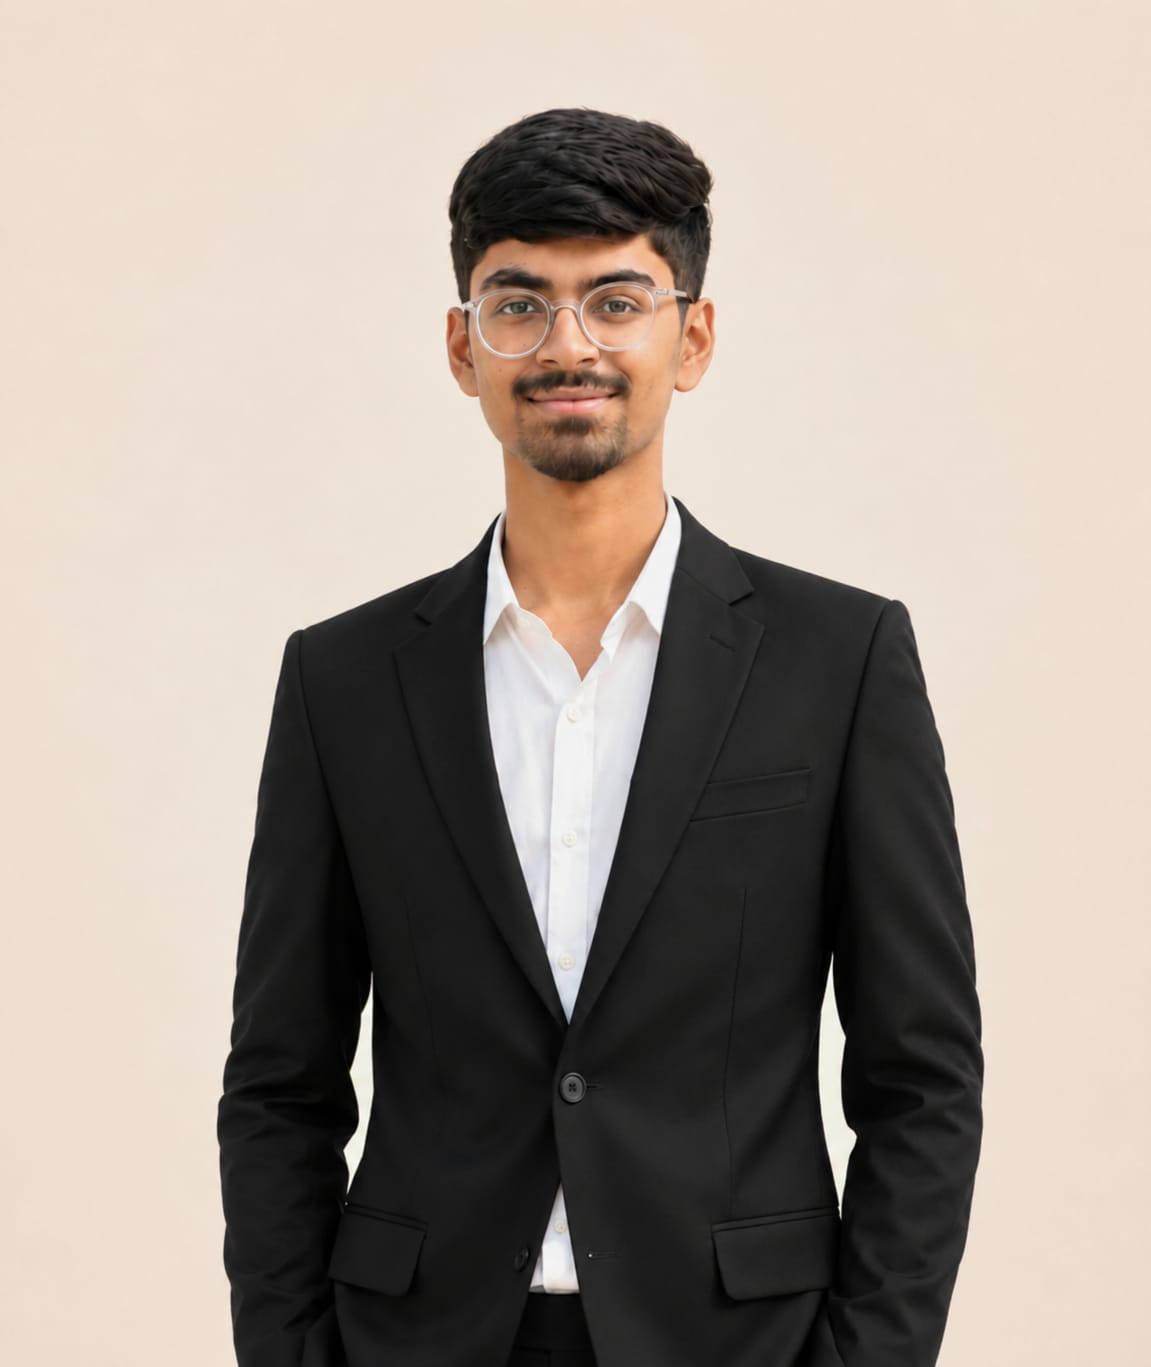
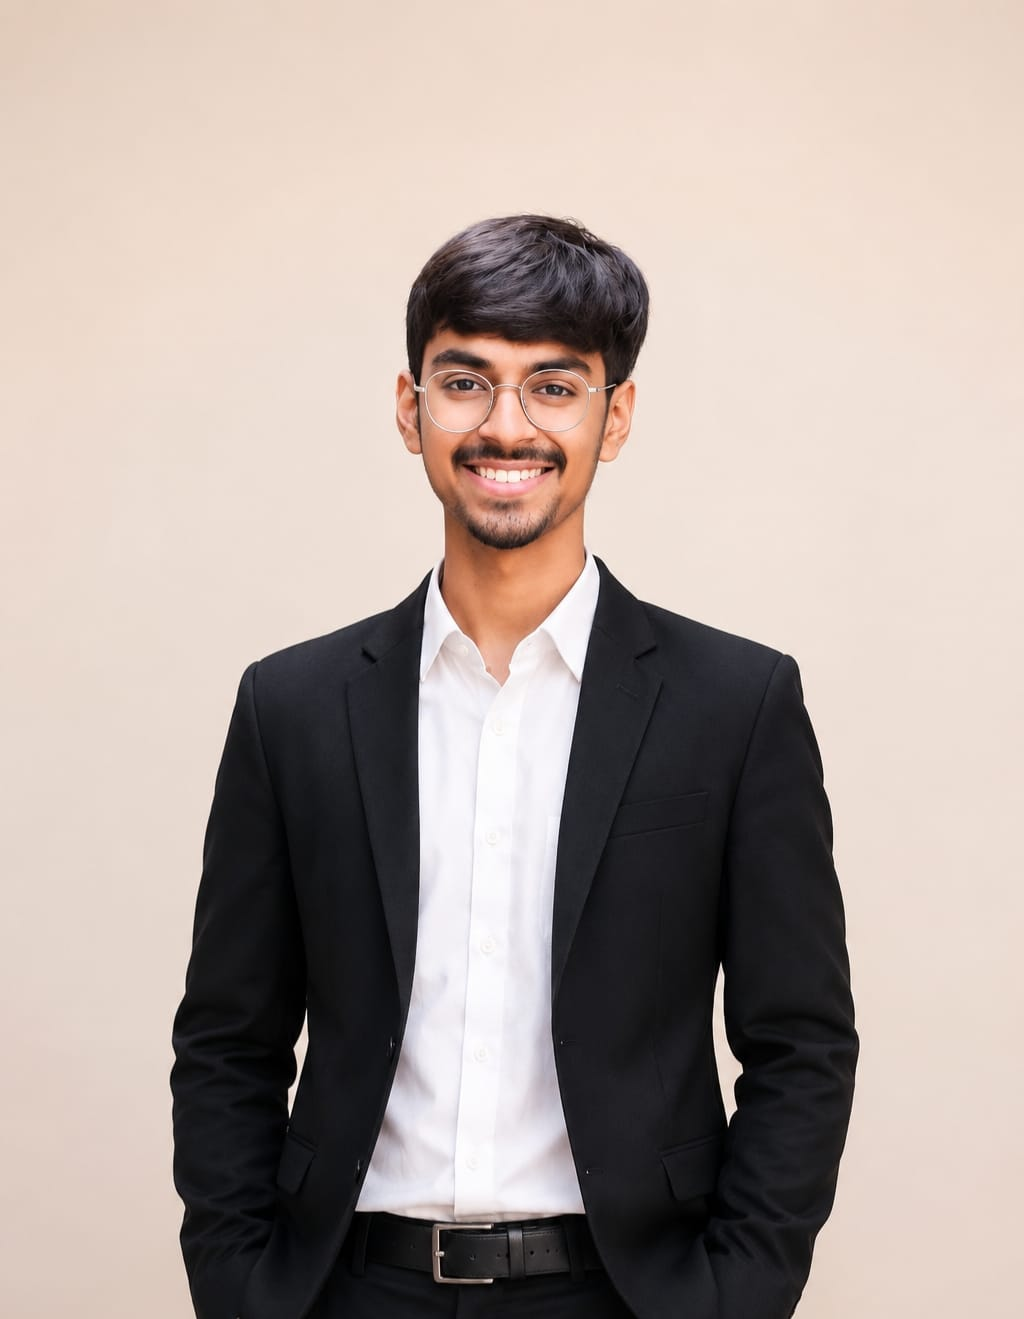
first commit

diff --git a/src/app/Components/Process/Process1.tsx b/src/app/Components/Process/Process1.tsx
@@ -1,24 +1,35 @@
 import Image from 'next/image';
 import React from 'react';
+// import React, { useEffect, useState } from "react";
 
 const Process1 = () => {
   return (
     <section className="cs_process_area cs_style_1">
-      <div className="cs_height_120 cs_height_lg_80"></div>
-      <div className="container">
+      <div className="cs_height_120 cs_height_lg_40"></div>
+      <div className="container-fluid">
         <div className="cs_section_heading cs_style_1 text-center">
-          <p className="cs_section_subtitle cs_fs-18 cs_semibold cs_accent_color cs_center cs_mb_20 wow fadeInDown">
+          {/* <p className="cs_section_subtitle cs_fs-18 cs_semibold cs_accent_color cs_center cs_mb_20 wow fadeInDown">
             <span className="cs_shape_left"></span>Work Process<span className="cs_shape_right"></span>
-          </p>
+          </p> */}
           <h2 className="cs_fs_48 cs_mb_21 wow fadeInUp">Our Solution Process.</h2>
-          <p className="cs_section_heading_text mb-0 wow fadeInUp" data-wow-delay="200ms">Experience Excellence Techtro  Your Leading Digital Solutions Provider. We are a leading digital agency.</p>
+          {/* <p className="cs_section_heading_text mb-0 wow fadeInUp" data-wow-delay="200ms">Experience Excellence Techtro  Your Leading Digital Solutions Provider. We are a leading digital agency.</p> */}
         </div>
         <div className="cs_height_60 cs_height_lg_50"></div>
         <div className="cs_process_content">
           <div className="cs_heading_box cs_radius_20">
-            <div className="cs_heading_box_inner cs_center cs_blue_bg cs_bold cs_white_color cs_radius_10 text-center text-uppercase">Digitom Approach</div>
+            <div className="cs_heading_box_inner cs_center cs_blue_bg cs_bold cs_white_color cs_radius_10 text-center text-uppercase">Our Steps</div>
           </div>
-          <div className="cs_steps_boxes_wrapper position-relative">
+          <div
+  className="cs_steps_boxes_wrapper position-relative"
+  style={{
+    paddingTop: "40px",
+  display: "flex",
+  justifyContent: "center",
+  alignItems: "center",
+  flexWrap: "nowrap",
+  gap: "100px",
+}}
+>
             <div className="cs_stepbox_wrapper position-relative wow fadeInUp">
               <span className="cs_stepbox_index cs_center cs_radius_50 position-absolute">
                 <span className="cs_step_index_in cs_radius_50">
@@ -59,7 +70,49 @@ const Process1 = () => {
               </span>
               <div className="cs_stepbox_inner cs_center cs_fs_22 cs_medium cs_heading_color_2 cs_radius_10 text-center">Launch & QA</div>
             </div>
-            <div className="cs_process_shape_1 position-absolute">
+
+            {/* Step 05 */}
+<div className="cs_stepbox_wrapper position-relative">
+  <span className="cs_stepbox_index cs_center cs_radius_50 position-absolute">
+    <span className="cs_step_index_in cs_radius_50">
+      <span className="cs_fs-18 cs_bold cs_heading_color">05</span>
+      <span className="cs_fs_14 cs_medium">Step</span>
+    </span>
+    <Image
+      src="/assets/img/step_index_1.svg"
+      alt="img"
+      width={72}
+      height={25}
+    />
+  </span>
+
+  <div className="cs_stepbox_inner cs_center cs_fs_22 cs_medium cs_heading_color_2 cs_radius_10 text-center">
+    Testing & Review
+  </div>
+</div>
+
+{/* Step 06 */}
+<div className="cs_stepbox_wrapper position-relative">
+  <span className="cs_stepbox_index cs_center cs_radius_50 position-absolute">
+    <span className="cs_step_index_in cs_radius_50">
+      <span className="cs_fs-18 cs_bold cs_heading_color">06</span>
+      <span className="cs_fs_14 cs_medium">Step</span>
+    </span>
+    <Image
+      src="/assets/img/step_index_2.svg"
+      alt="img"
+      width={72}
+      height={25}
+    />
+  </span>
+
+  <div className="cs_stepbox_inner cs_center cs_fs_22 cs_medium cs_heading_color_2 cs_radius_10 text-center">
+    Support & Maintenance
+  </div>
+</div>
+        
+            
+            {/* <div className="cs_process_shape_1 position-absolute">
               <Image src="/assets/img/process_shape_1.svg" alt="img" width={959} height={208} />
             </div>
             <div className="cs_process_shape_2 position-absolute"></div>
@@ -67,7 +120,7 @@ const Process1 = () => {
             <div className="cs_process_shape_4 position-absolute"></div>
             <div className="cs_process_shape_5 position-absolute"></div>
             <div className="cs_process_shape_6 position-absolute"></div>
-            <div className="cs_process_shape_7 position-absolute"></div>
+            <div className="cs_process_shape_7 position-absolute"></div> */}
           </div>
         </div>
       </div>

diff --git a/src/app/Components/Faq/Faq1.tsx b/src/app/Components/Faq/Faq1.tsx
@@ -7,11 +7,11 @@ import Image from 'next/image';
 const Faq1 = () => {
 
     const faqContent = [
-        {title:'Bring their individual experience and creative?', content:'Nullam faucibus eleifend mi eu varius. Integer vel tincidunt massa, quis semper odio. Mauris et mollis quam. Nullam fringilla erat id ante commodo sodales.'},
-        {title:'Human centered design to challenges?', content:'Nullam faucibus eleifend mi eu varius. Integer vel tincidunt massa, quis semper odio. Mauris et mollis quam. Nullam fringilla erat id ante commodo sodales.'},
-        {title:'What type of company is measured?', content:'Nullam faucibus eleifend mi eu varius. Integer vel tincidunt massa, quis semper odio. Mauris et mollis quam. Nullam fringilla erat id ante commodo sodales.'},
-        {title:'Developing core web applications?', content:'Nullam faucibus eleifend mi eu varius. Integer vel tincidunt massa, quis semper odio. Mauris et mollis quam. Nullam fringilla erat id ante commodo sodales.'},
-        {title:'Design should enrich our day?', content:'Nullam faucibus eleifend mi eu varius. Integer vel tincidunt massa, quis semper odio. Mauris et mollis quam. Nullam fringilla erat id ante commodo sodales.'},
+        {title:'What digital marketing services does The Crystal Engage offer ?', content:'The Crystal Engage provides end-to-end digital marketing and technology solutions, including Search Engine Optimization (SEO), Performance Marketing, Social Media Marketing, Website Design & Development, Branding, Content Marketing, Mobile App Development, E-commerce Development, UI/UX Design, and Custom Software Development. Our services are designed to help businesses increase online visibility, generate qualified leads, and achieve sustainable growth.'},
+        {title:'How can digital marketing help my business grow ?', content:'Digital marketing helps businesses attract the right audience, improve brand visibility, generate quality leads, and increase conversions through targeted online strategies. By combining SEO, paid advertising, content marketing, and social media, businesses can strengthen their online presence and achieve measurable business growth.'},
+        {title:'How long does SEO take to deliver results ?', content:'SEO is a long-term strategy that builds sustainable online visibility. While some improvements may be noticeable within 2–3 months, significant growth in organic traffic, keyword rankings, and lead generation generally takes 4–6 months or more, depending on your industry, competition, and website performance.'},
+        {title:'Do you create customized digital marketing strategies ?', content:'Yes. Every business has unique goals and challenges, so we develop customized digital marketing strategies based on your industry, target audience, competition, and business objectives. This ensures every campaign is aligned with measurable outcomes such as increased traffic, qualified leads, and higher conversions.'},
+        {title:'Why choose The Crystal Engage as your digital growth partner ?', content:'We focus on delivering measurable business outcomes rather than simply offering marketing services. By combining data-driven strategies, industry expertise, transparent communication, and continuous optimization, we help businesses improve online visibility, attract the right customers, and achieve long-term digital growth.'},
       ]; 
 
       const accordionContentRef = useRef(null);

diff --git a/src/app/Components/Counter/Counter1.tsx b/src/app/Components/Counter/Counter1.tsx
@@ -3,43 +3,43 @@ import React from 'react';
 const Counter1 = () => {
     return (
 <div className="cs_counter cs_style_1 cs_gray_bg_1">
-      <div className="container">
-        <div className="row">
-          <div className="col-lg-3 col-sm-6">
-            <div className="cs_counter_wrapper cs_bg_gradient">
-              <div className="cs_counter_number cs_fs_48 cs_bold cs_heading_color mb-0">
-                <span data-count-to="14" className="odometer"></span>7+
-              </div>
-              <p className="cs_counter_title cs_fs_18 mb-0">Years of Experience</p>
-            </div>
+  <div className="container">
+    <div className="row justify-content-center">
+      <div className="col-lg-4 col-md-6 col-sm-6 mb-4">
+        <div className="cs_counter_wrapper cs_bg_gradient text-center">
+          <div className="cs_counter_number cs_fs_48 cs_bold cs_heading_color mb-0">
+            <span data-count-to="530" className="odometer"></span>530+
           </div>
-          <div className="col-lg-3 col-sm-6">
-            <div className="cs_counter_wrapper">
-              <div className="cs_counter_number cs_fs_48 cs_bold cs_heading_color mb-0">
-                <span data-count-to="500" className="odometer"></span>150+
-              </div>
-              <p className="cs_counter_title cs_fs_18 mb-0">Happy Customer</p>
-            </div>
+          <p className="cs_counter_title cs_fs_18 mb-0">
+            Projects Delivered
+          </p>
+        </div>
+      </div>
+
+      <div className="col-lg-4 col-md-6 col-sm-6 mb-4">
+        <div className="cs_counter_wrapper text-center">
+          <div className="cs_counter_number cs_fs_48 cs_bold cs_heading_color mb-0">
+            <span data-count-to="98" className="odometer"></span>98%
           </div>
-          <div className="col-lg-3 col-sm-6">
-            <div className="cs_counter_wrapper cs_bg_gradient">
-              <div className="cs_counter_number cs_fs_48 cs_bold cs_heading_color mb-0">
-                <span data-count-to="4530" className="odometer"></span>530+
-              </div>
-              <p className="cs_counter_title cs_fs_18 mb-0">Project Delivered</p>
-            </div>
+          <p className="cs_counter_title cs_fs_18 mb-0">
+            Client Satisfaction
+          </p>
+        </div>
+      </div>
+
+      <div className="col-lg-4 col-md-6 col-sm-6 mb-4">
+        <div className="cs_counter_wrapper cs_bg_gradient text-center">
+          <div className="cs_counter_number cs_fs_48 cs_bold cs_heading_color mb-0">
+            <span data-count-to="10" className="odometer"></span>10+
           </div>
-          <div className="col-lg-3 col-sm-6">
-            <div className="cs_counter_wrapper">
-              <div className="cs_counter_number cs_fs_48 cs_bold cs_heading_color mb-0">
-                <span data-count-to="450" className="odometer"></span>15+
-              </div>
-              <p className="cs_counter_title cs_fs_18 mb-0">Employees</p>
-            </div>
-          </div>
+          <p className="cs_counter_title cs_fs_18 mb-0">
+            Years Experience
+          </p>
         </div>
       </div>
     </div>
+  </div>
+</div>
     );
 };
 

diff --git a/src/app/Components/About/About1.tsx b/src/app/Components/About/About1.tsx
@@ -11,16 +11,16 @@ const About1 = () => {
           <div className="col-lg-6">
             <div className="cs_about_content">
               <div className="cs_section_heading cs_style_1 cs_mb_28">
-                <p className="cs_section_subtitle cs_fs-18 cs_semibold cs_accent_color cs_mb_20">
+                {/* <p className="cs_section_subtitle cs_fs-18 cs_semibold cs_accent_color cs_mb_20">
                   About Us<span className="cs_shape_right"></span>
-                </p>
+                </p> */}
                 <h2 className="cs_fs_48 cs_mb_21 wow fadeInDown">we’re strategic digital marketing agency</h2>
                 <p className="cs_section_heading_text mb-0">We are a results-driven digital marketing agency committed to helping brands grow with powerful online strategies. Our mission is to bring innovative marketing solutions that boost visibility, attract the right audience, and convert visitors into loyal customers. With expertise across SEO, social media marketing, branding, paid ads, and data analytics, we design customized campaigns that deliver measurable success.
 
                   {/* <br/><br/>From small businesses to large enterprises, we support every stage of the digital journey with advanced tools, creative thinking, and performance-focused execution. Our team believes in transparency, smart planning, and long-term growth—making us a trusted partner for businesses that want to scale effectively in today’s competitive digital world. */}
                 </p>
               </div>
-              <ul className="cs_list cs_style_1 cs_medium cs_heading_color cs_mp_0">
+              {/* <ul className="cs_list cs_style_1 cs_medium cs_heading_color cs_mp_0">
                 <li>
                   <span className="cs_list_icon cs_center"><i className="bi bi-check-lg"></i></span>
                   <span className="cs_list_text">Various analysis options.</span>
@@ -33,7 +33,7 @@ const About1 = () => {
                   <span className="cs_list_icon cs_center"><i className="bi bi-check-lg"></i></span>
                   <span className="cs_list_text">Advance Data analysis operation.</span>
                 </li>
-              </ul>
+              </ul> */}
               <div className="cs_about_btn_group">
                 <Link href="/about" aria-label="Click to visit about us page" className="cs_btn cs_style_1 cs_fs_14 cs_bold text-uppercase wow fadeInLeft"><span>About Us</span></Link>
                 <div className="cs_client_info_wrapper wow fadeInRight">

diff --git a/src/app/Components/HeroBanner/HeroBanner1.tsx b/src/app/Components/HeroBanner/HeroBanner1.tsx
@@ -15,15 +15,15 @@ const HeroBanner1 = () => {
   const titles = [
   {
     title: "Digital Marketing",
-    highlight: "Solutions.",
+    // highlight: "Solutions.",
   },
   {
     title: "Web Development",
-    highlight: "Services.",
+    // highlight: "Services.",
   },
   {
     title: "Creative Branding",
-    highlight: "Strategy.",
+    // highlight: "Strategy.",
   },
 ];
 
@@ -77,7 +77,7 @@ useEffect(() => {
             {/* <div className="cs_hero_shape_1 position-absolute">
               <Image src="/assets/img/star_shape.svg" alt="img" width={35} height={39} />
             </div> */}
-            <p className="cs_hero_subtitle cs_accent_color cs_semibold">Best Of Your Growth, Our Mission</p>
+            <p className="cs_hero_subtitle cs_accent_color cs_semibold">Your Growth, Our Strategy </p>
             <h1
   className="cs_hero_title cs_extra_bold"
   style={{
@@ -105,7 +105,8 @@ useEffect(() => {
   </AnimatePresence>
 </h1>
             <div className="cs_hero_text_wrapper">
-              <p className="cs_hero_text cs_medium wow fadeInRight">Grow your business with the best digital marketing solution designed to increase online visibility, attract quality customers, and boost sales. Our expert team provides result-driven services including SEO, social media marketing, branding, content creation, and paid advertising. We use advanced strategies and real-time analytics to deliver measurable growth and long-term success. Whether you&apos;re a startup or an established brand, we help you achieve your goals with powerful, customized digital marketing solutions that truly work.
+              <p className="cs_hero_text cs_medium wow fadeInRight"> Grow your business with digital marketing strategies designed to increase qualified leads, improve online visibility, and maximize return on investment.
+From search engine optimization and paid advertising to website development, branding, and social media marketing, our solutions are built around your business goals—not generic marketing campaigns. 
               </p>
               <div className="cs_hero_feature_wrapper">
                 <Link href="/about" className="cs_totating_logo cs_heading_bg cs_radius_50 position-relative wow zoomIn">

diff --git a/src/app/Components/HowWeDo/HowWeDo.tsx b/src/app/Components/HowWeDo/HowWeDo.tsx
@@ -8,14 +8,14 @@ const HowWeDo = () => {
       <div className="container">
         <div className="cs_section_heading cs_style_1 cs_type_1 align-items-center">
           <div className="cs_section_heading_left">
-            <p className="cs_section_subtitle cs_fs-18 cs_semibold cs_accent_color cs_mb_20 wow fadeInDown">
+            {/* <p className="cs_section_subtitle cs_fs-18 cs_semibold cs_accent_color cs_mb_20 wow fadeInDown">
               How We Do<span className="cs_shape_right"></span>
-            </p>
+            </p> */}
             <h2 className="cs_fs_48 mb-0 wow fadeInUp">Crafting Creative Solutions <br /> for Modern Brands</h2>
           </div>
-          <div className="cs_section_heading_right wow fadeInRight">
+          {/* <div className="cs_section_heading_right wow fadeInRight">
             <p className="cs_section_heading_text mb-0">Our comprehensive suite of digital marketing services is <br /> designed to elevate your brands visibility.</p>
-          </div>
+          </div> */}
         </div>
         <div className="cs_height_60 cs_height_lg_50"></div>
         <div className="row cs_gap_y_40 cs_tab_reverse align-items-center position-relative z-1">

diff --git a/src/app/Components/Project/Project1.tsx b/src/app/Components/Project/Project1.tsx
@@ -18,11 +18,11 @@ const Project1 = () => {
         <div className="cs_height_120 cs_height_lg_80"></div>
         <div className="container">
           <div className="cs_section_heading cs_style_1 text-center">
-            <p className="cs_section_subtitle cs_fs-18 cs_semibold cs_accent_color cs_center cs_mb_20 wow fadeInDown">
+            {/* <p className="cs_section_subtitle cs_fs-18 cs_semibold cs_accent_color cs_center cs_mb_20 wow fadeInDown">
               <span className="cs_shape_left"></span>Latest Work<span className="cs_shape_right"></span>
-            </p>
+            </p> */}
             <h2 className="cs_fs_48 cs_mb_21 wow fadeInUp">Explore Our Project</h2>
-            <p className="cs_section_heading_text mb-0 wow fadeInUp" data-wow-delay="200ms">Our comprehensive suite of digital marketing services is designed to <br/> elevate your brands visibility.</p>
+            {/* <p className="cs_section_heading_text mb-0 wow fadeInUp" data-wow-delay="200ms">Our comprehensive suite of digital marketing services is designed to <br/> elevate your brands visibility.</p> */}
           </div>
         </div>
         <div className="cs_height_60 cs_height_lg_50"></div>

diff --git a/src/app/Components/Contact/Contact1.tsx b/src/app/Components/Contact/Contact1.tsx
@@ -18,9 +18,9 @@ const Contact1 = () => {
           <div className="col-lg-6 order-lg-1 position-relative z-2">
             <div className="cs_contact_info_wrapper">
             <div className="cs_section_heading cs_style_1">
-              <p className="cs_section_subtitle cs_fs-18 cs_semibold cs_accent_color cs_mb_20 wow fadeInDown">Get In Touch Now<span className="cs_shape_right"></span>
-              </p>
-              <h2 className="cs_fs_48 cs_mb_20 wow fadeInUp">Feel Free To Contact Us</h2>
+              {/* <p className="cs_section_subtitle cs_fs-18 cs_semibold cs_accent_color cs_mb_20 wow fadeInDown">Get In Touch Now<span className="cs_shape_right"></span>
+              </p> */}
+              <h2 className="cs_fs_48 cs_mb_20 wow fadeInUp">Contact Us</h2>
               <p className="cs_section_heading_text mb-0 wow fadeInUp" data-wow-delay="200ms">Our comprehensive suite of digital marketing services </p>
             </div>
             <div className="cs_height_32 cs_height_lg_30"></div>

diff --git a/src/app/Components/About/About2.tsx b/src/app/Components/About/About2.tsx
@@ -16,8 +16,8 @@ const  About2 = () => {
             <div className="col-lg-7">
               <div className="cs_about_content">
                 <div className="cs_section_heading cs_style_1 cs_mb_28">
-                  <p className="cs_section_subtitle cs_fs-18 cs_semibold cs_accent_color cs_mb_20 wow fadeInDown">What We Do<span className="cs_shape_right"></span>
-                  </p>
+                  {/* <p className="cs_section_subtitle cs_fs-18 cs_semibold cs_accent_color cs_mb_20 wow fadeInDown">What We Do<span className="cs_shape_right"></span>
+                  </p> */}
                   <h2 className="cs_fs_48 cs_mb_21 wow fadeInUp">Digital Growth Driven by Strategy & Results</h2>
                   <p className="cs_section_heading_text mb-0 wow fadeInUp" data-wow-delay="200ms">We fuel brand growth with strategic digital marketing that improves visibility, attracts the right audience, and drives conversions.</p>
                 </div>

diff --git a/src/app/assets/main.css b/src/app/assets/main.css
@@ -7981,7 +7981,7 @@ label {
   z-index: 1;
 }
 
-.cs_steps_boxes_wrapper .cs_stepbox_wrapper:nth-child(2) {
+/* .cs_steps_boxes_wrapper .cs_stepbox_wrapper:nth-child(2) {
   -webkit-transform: translate(-40px, 105px);
   transform: translate(-40px, 105px);
 }
@@ -7989,7 +7989,7 @@ label {
 .cs_steps_boxes_wrapper .cs_stepbox_wrapper:nth-child(3) {
   -webkit-transform: translate(40px, 105px);
   transform: translate(40px, 105px);
-}
+} */
 
 .cs_steps_boxes_wrapper .cs_process_shape_1 {
   width: 960px;
@@ -10627,6 +10627,8 @@ label {
   filter: brightness(0) invert(1);
 }
 
+
+
 @media only screen and (max-width: 1400px) and (min-width: 1000px) {
   .cs_hero.cs_style_3 {
     padding: 340px 0 190px;
@@ -10659,3 +10661,4 @@ label {
   margin-top: 200px;
   margin-left: 100px;
 } */
+

diff --git a/src/app/Components/Team/Team1.tsx b/src/app/Components/Team/Team1.tsx
@@ -9,9 +9,9 @@ const Team1 = () => {
       <div className="cs_height_120 cs_height_lg_80"></div>
       <div className="container">
         <div className="cs_section_heading cs_style_1 text-center">
-          <p className="cs_section_subtitle cs_fs-18 cs_semibold cs_accent_color cs_center cs_mb_20 wow fadeInDown">
+          {/* <p className="cs_section_subtitle cs_fs-18 cs_semibold cs_accent_color cs_center cs_mb_20 wow fadeInDown">
             <span className="cs_shape_left"></span>Our Team<span className="cs_shape_right"></span>
-          </p>
+          </p> */}
           <h2 className="cs_fs_48 cs_mb_21 wow fadeInUp">Our Professional Experts</h2>
         </div>
         <div className="cs_height_60 cs_height_lg_50"></div>

diff --git a/src/app/Components/Testimonial/Testimonial1.tsx b/src/app/Components/Testimonial/Testimonial1.tsx
@@ -60,9 +60,9 @@ const Testimonial1 = () => {
       <div className="container">
         <div className="cs_section_heading cs_style_1 cs_type_1">
           <div className="cs_section_heading_left">
-            <p className="cs_section_subtitle cs_fs-18 cs_semibold cs_accent_color cs_mb_20 wow fadeInDown">
+            {/* <p className="cs_section_subtitle cs_fs-18 cs_semibold cs_accent_color cs_mb_20 wow fadeInDown">
               Our Testimonial<span className="cs_shape_right"></span>
-            </p>
+            </p> */}
             <h2 className="cs_fs_48 mb-0 wow fadeInUp">Clients Feedback</h2>
           </div>
           <div className="cs_section_heading_right wow fadeInRight">
